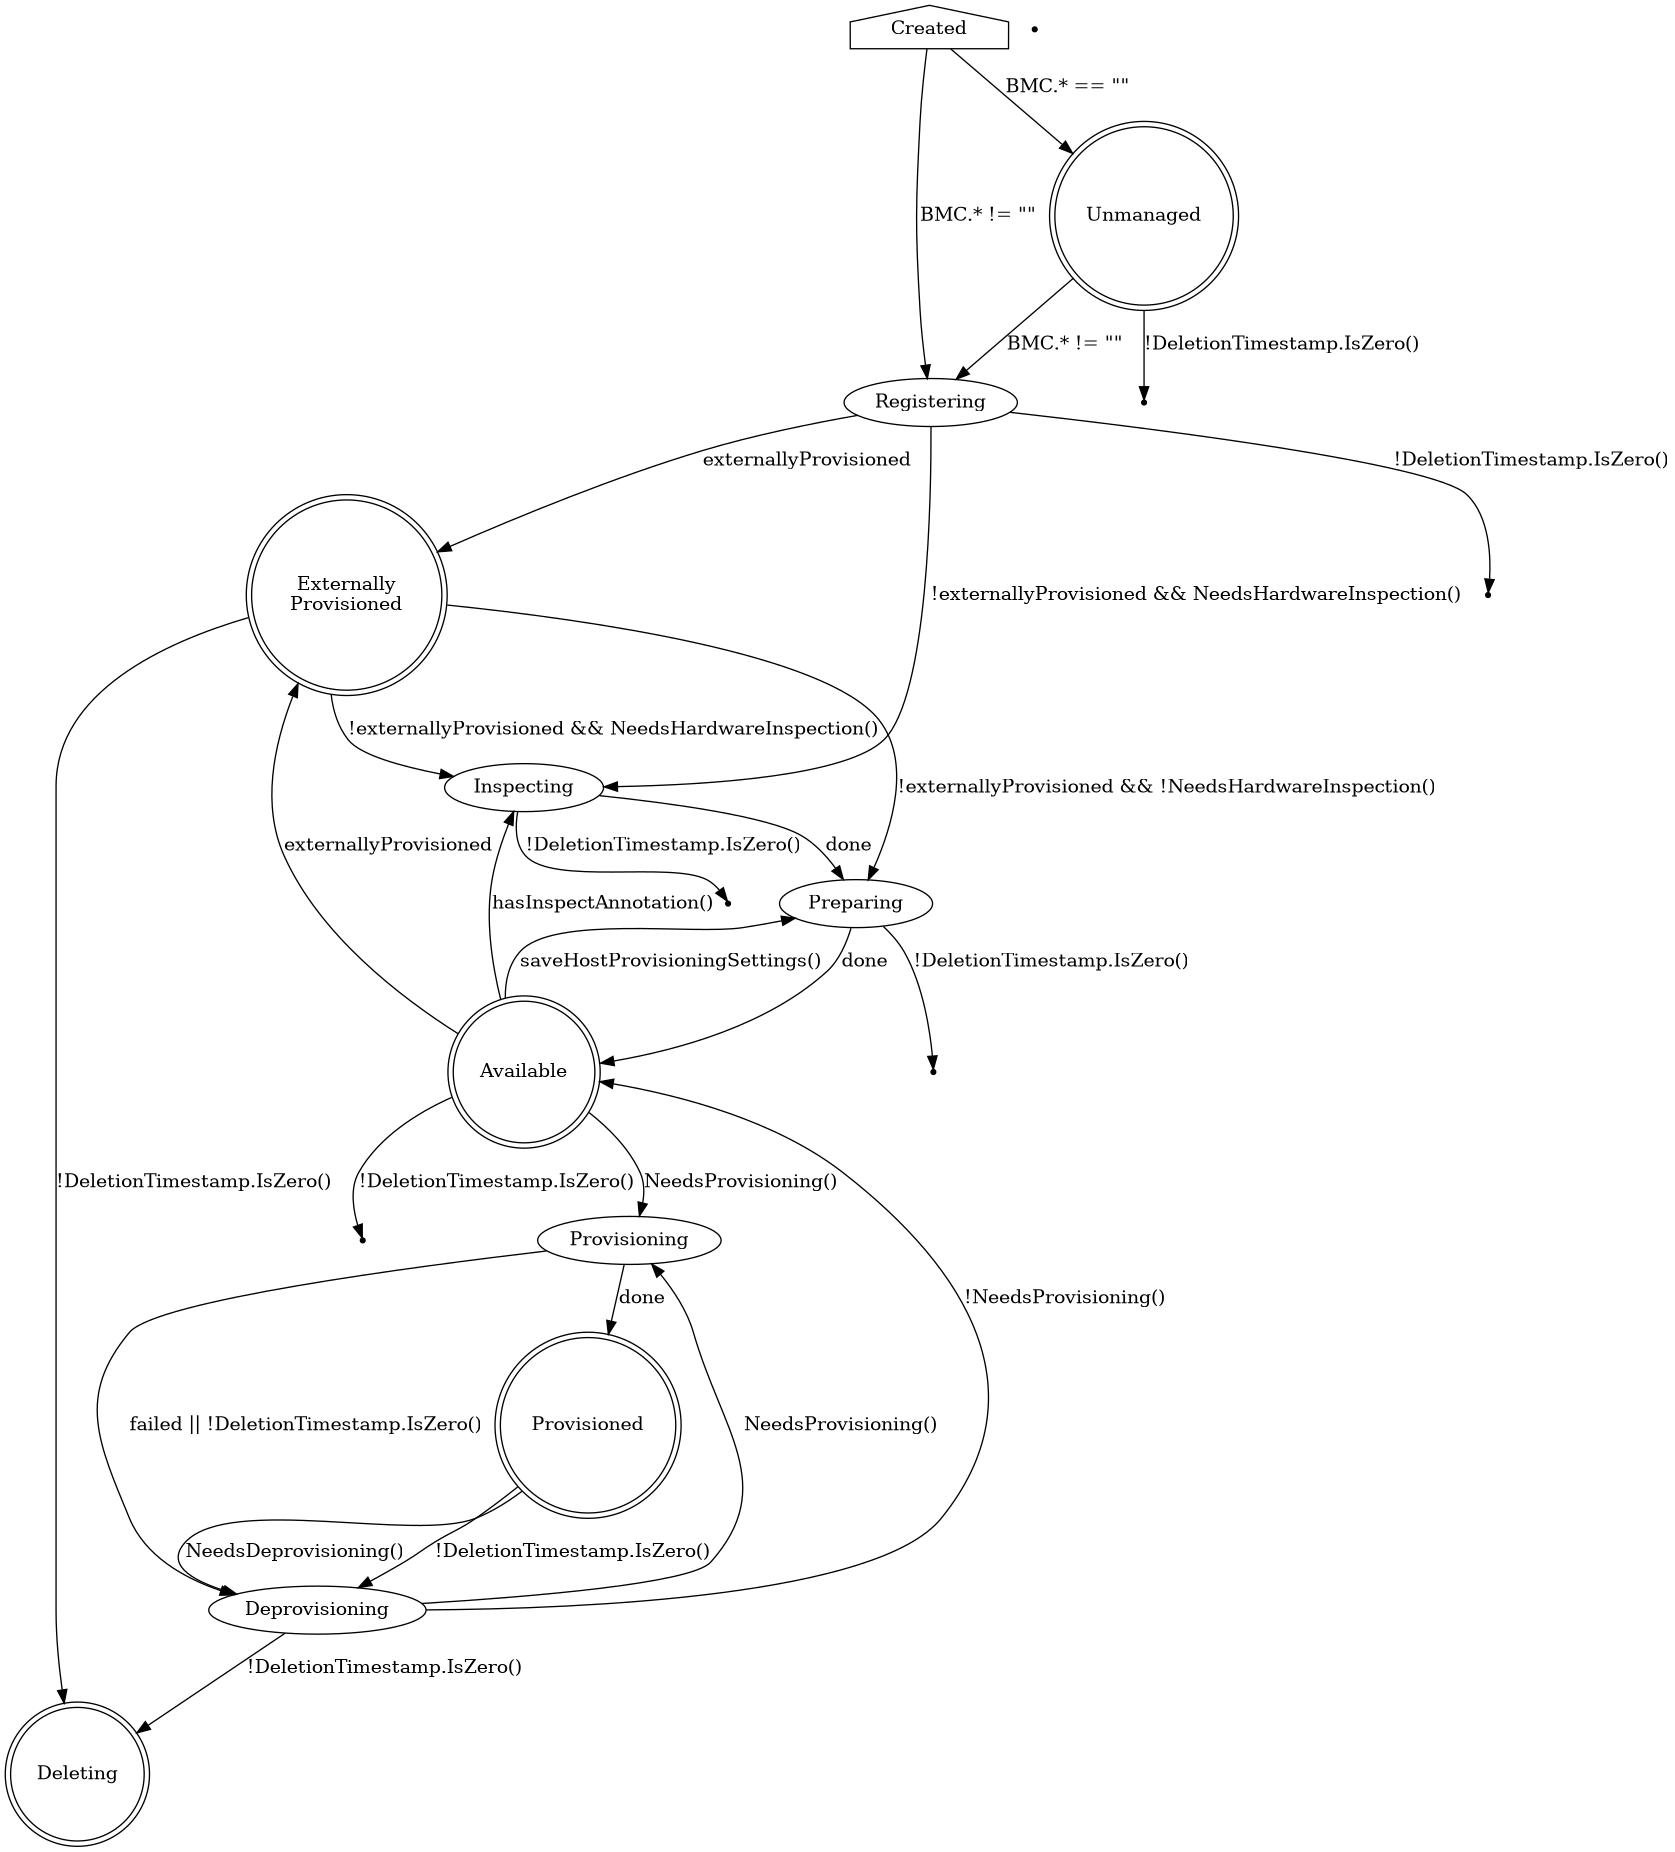
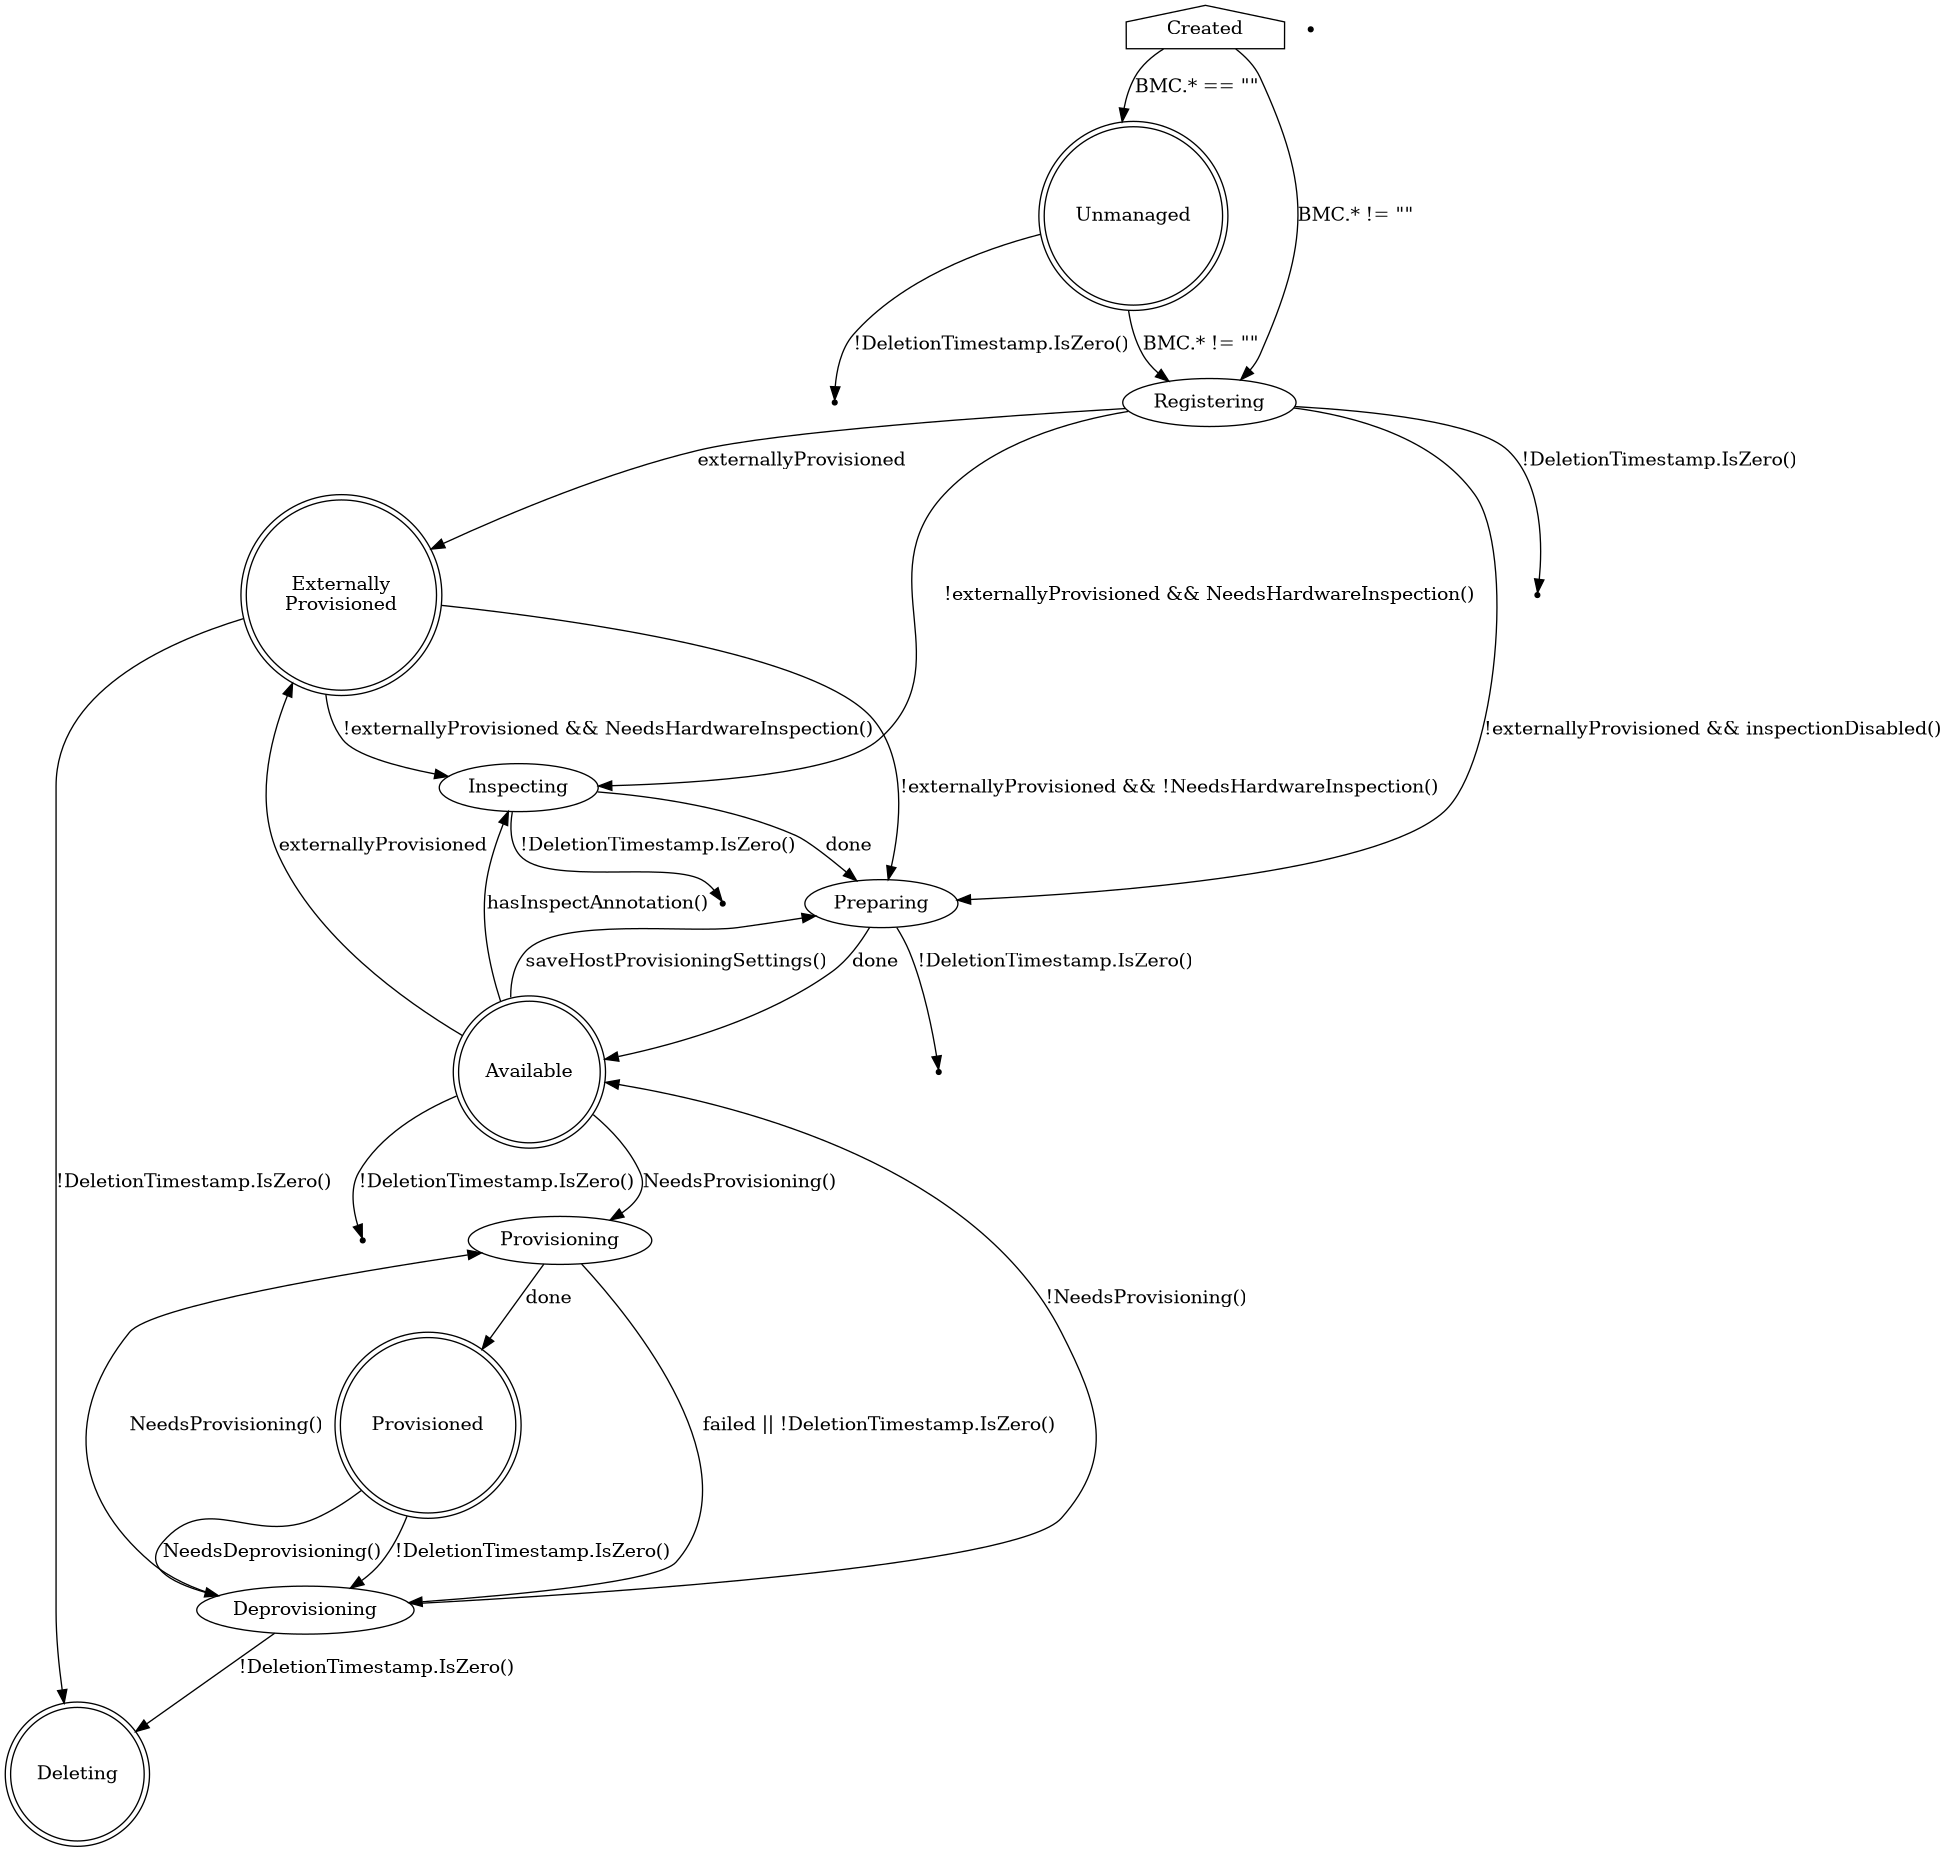
Skip the inspecting state when inspection is disabled
Currently, a host moves to the inspecting state and requests
a preprovisioning image even when inspection is disabled.

(cherry picked from commit 3b6d72f25f96091ac75d95d6e1591b582de2ddb5)

diff --git a/controllers/metal3.io/host_state_machine.go b/controllers/metal3.io/host_state_machine.go
@@ -348,6 +348,8 @@ func (hsm *hostStateMachine) handleRegistering(info *reconcileInfo) actionResult
 	// if the credentials change and the Host must be re-registered.
 	if hsm.Host.Spec.ExternallyProvisioned {
 		hsm.NextState = metal3v1alpha1.StateExternallyProvisioned
+	} else if inspectionDisabled(hsm.Host) {
+		hsm.NextState = metal3v1alpha1.StatePreparing
 	} else {
 		hsm.NextState = metal3v1alpha1.StateInspecting
 	}
@@ -377,10 +379,10 @@ func (hsm *hostStateMachine) handleExternallyProvisioned(info *reconcileInfo) ac
 		return hsm.Reconciler.actionManageSteadyState(hsm.Provisioner, info)
 	}
 
-	switch {
-	case hsm.Host.NeedsHardwareInspection():
+	// TODO(dtantsur): move this logic inside NeedsHardwareInspection?
+	if hsm.Host.NeedsHardwareInspection() && !inspectionDisabled(hsm.Host) {
 		hsm.NextState = metal3v1alpha1.StateInspecting
-	default:
+	} else {
 		hsm.NextState = metal3v1alpha1.StatePreparing
 	}
 	return actionComplete{}

diff --git a/controllers/metal3.io/host_state_machine_test.go b/controllers/metal3.io/host_state_machine_test.go
@@ -976,6 +976,11 @@ func TestErrorCountClearedOnStateTransition(t *testing.T) {
 			TargetState: metal3v1alpha1.StateInspecting,
 		},
 		{
+			Scenario:    "registering-to-preparing",
+			Host:        host(metal3v1alpha1.StateRegistering).DisableInspection().build(),
+			TargetState: metal3v1alpha1.StatePreparing,
+		},
+		{
 			Scenario:    "inspecting-to-preparing",
 			Host:        host(metal3v1alpha1.StateInspecting).build(),
 			TargetState: metal3v1alpha1.StatePreparing,
@@ -1168,6 +1173,14 @@ func (hb *hostBuilder) SetOnline(status bool) *hostBuilder {
 
 func (hb *hostBuilder) SetOperationalStatus(status metal3v1alpha1.OperationalStatus) *hostBuilder {
 	hb.Status.OperationalStatus = status
+	return hb
+}
+
+func (hb *hostBuilder) DisableInspection() *hostBuilder {
+	if hb.Annotations == nil {
+		hb.Annotations = make(map[string]string, 1)
+	}
+	hb.Annotations[inspectAnnotationPrefix] = "disabled"
 	return hb
 }
 
